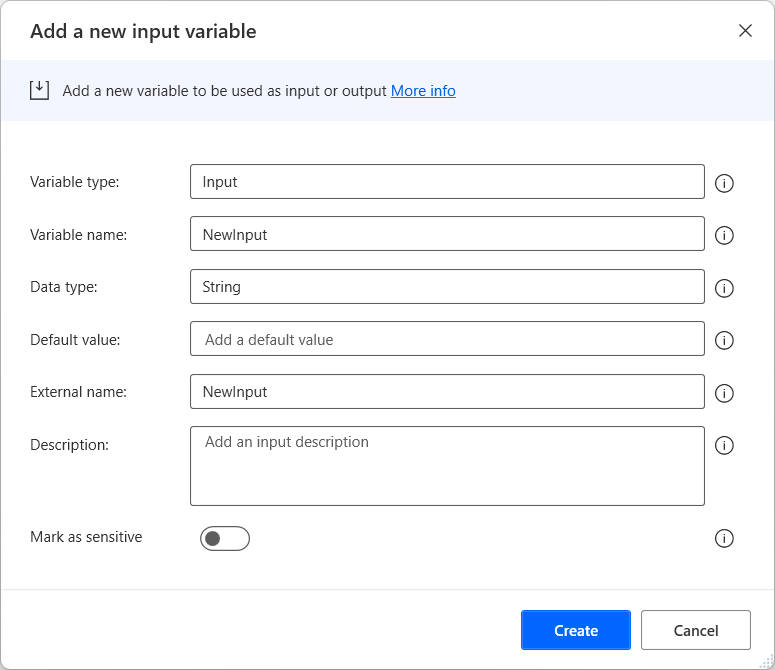
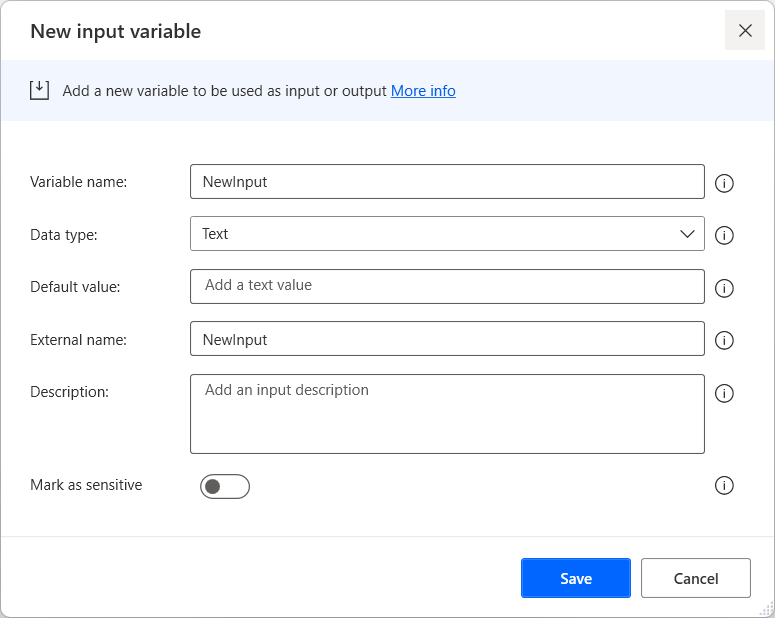
Updated content in Trigger a desktop flow from a cloud flow

diff --git a/articles/desktop-flows/link-pad-flow-portal.md b/articles/desktop-flows/link-pad-flow-portal.md
@@ -70,22 +70,22 @@ search.audienceType:
 
    ![Screenshot of the flow designer.](media\link-pad-flow-portal\flow-designer-blank.png)
 
-1. Optionally, create Input/output variables to pass data back and forth from the Power Automate web portal to your desktop flow. In the Variables pane, select **+** to add an input or output variable.
+1. Optionally, create input/output variables to pass data back and forth from the Power Automate web portal to your desktop flow. In the Variables pane, select **+** to add an input or output variable.
 
    ![Screenshot of the option to create a new input variable.](media\link-pad-flow-portal\new-input-output-var.png)
 
-1. To create an input or output variable, the Edit variable dialog box will require filling in the fields as follows:
-   * Variable type—input or output
-   * Variable name—the name of the variable in flow designer
-   * Default value—the value which the variable holds if none is assigned
-   * Data type—the type of the variable (integer, string, datetime, and so on.)
-   * External name—the name used outside flow designer. This name appears in Power    Automate.
-   * Description—a description of the variable. This mandatory field appears in Power Automate
-   * Mark as sensitive-enable this option to set the variable as sensitive and hide its content in the flow designer and the Power Automate logs.
+1. To create an input or output variable, the **New input/output variable** dialog requires filling in the fields as follows:
+
+   - **Variable name**: The name of the variable in the flow.
+   - **Data type**: The type of the variable: text, number, boolean, custom object, list or datatable.
+   - **Default value**: The default value when the flow runs from the Power Automate flow designer or the Power Automate console.
+   - **External name**: The name used outside the flow. The external name is the name that will appear in Power Automate.
+   - **Description**: A description of the variable that will appear in Power Automate and the Flow inputs dialog.
+   - **Mark as sensitive**: Defines whether to mark the variable as sensitive or not. You can find information regarding senstive variables in [Sensitive variables](#sensitive-variables).
 
    ![Screenshot of the Add a new input variable dialog.](media\link-pad-flow-portal\add-new-input-var.png)
 
-1. Create an Input variable to pass data from Power Automate web portal to your desktop flow. The variable can be used anywhere in the desktop flow.
+1. Create an input variable to pass data from Power Automate web portal to your desktop flow. The variable can be used anywhere in the desktop flow.
 
 1. To pass data from your desktop flow to Power Automate web portal, create an Output variable.
 
